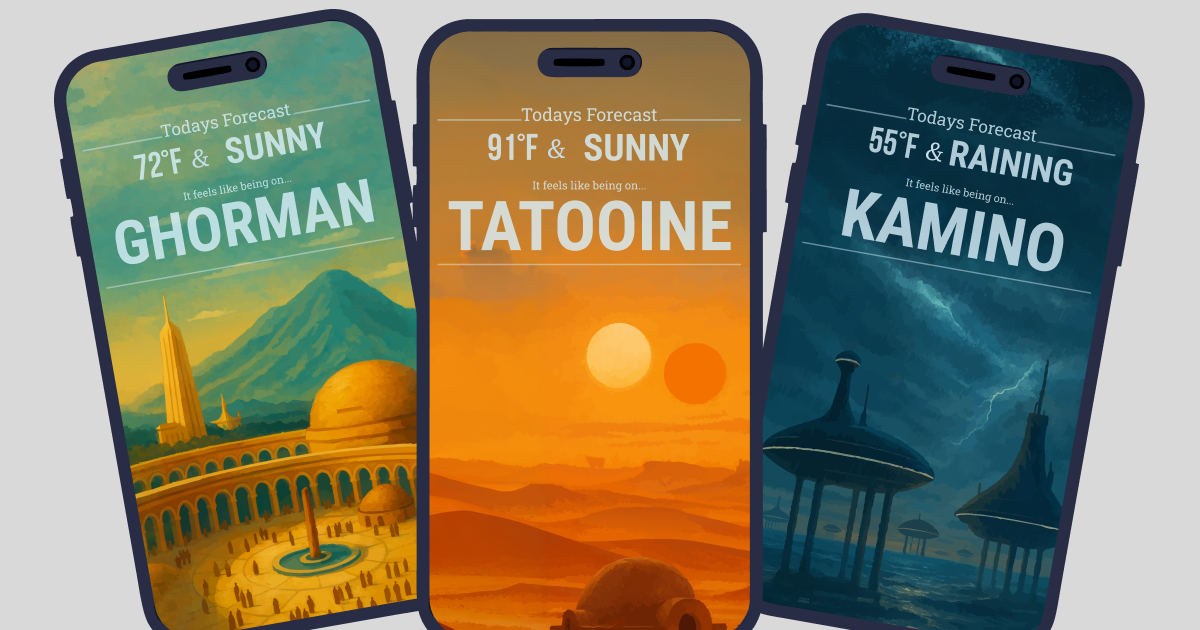
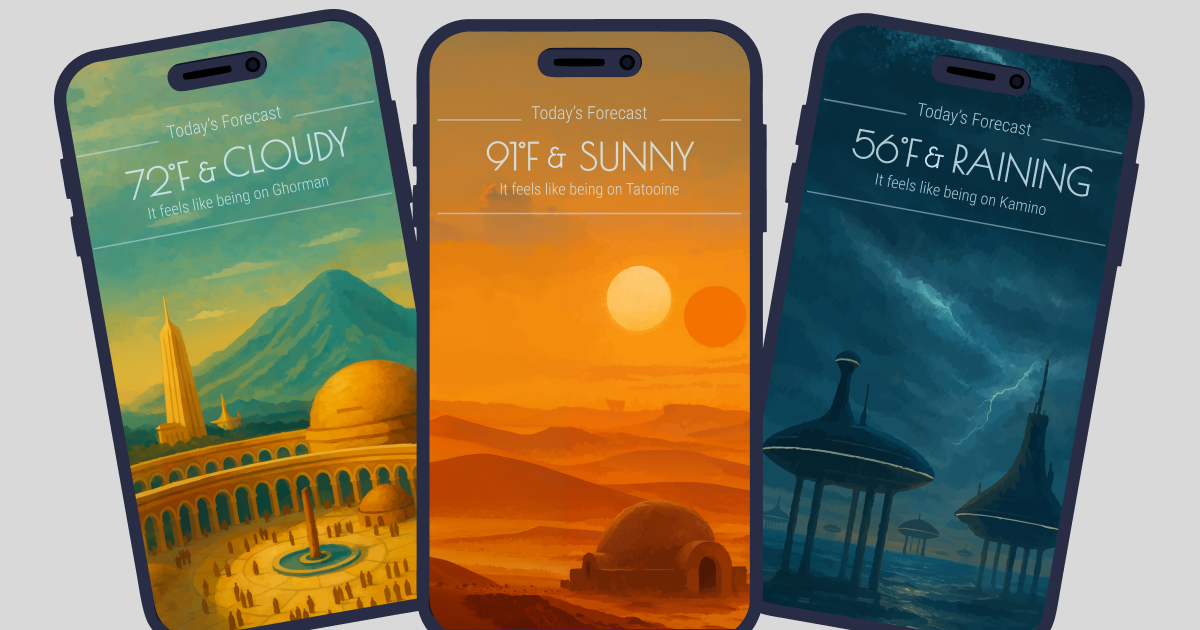
Lead the OG cards with weather, and let the world be a caption
Both broadcast cards reworked further than IP-REVIEW.md asked for. The remaining
vehicles are gone — a speeder in the Tatooine foreground on each card, which this
review had missed and cleared as architecture. More consequentially, the planet
name is no longer the headline: temperature and condition take the large type and
the world drops to a caption beneath it, "It feels like being on Ghorman".

That change closes the one policy question the review could not answer. The
standing rule bans franchise names from metadata and vehicles from broadcast art
but says nothing about a franchise planet name rendered *as* the art, which is
exactly what both cards were doing with TATOOINE and KAMINO in the largest type on
the surface. Rather than ruling on the gap, the cards were changed so nothing sits
in it. The gap remains in principle and is worth a line in ATLAS-HANDOFF.md so a
future redesign does not walk back into it.

Also fixes the apostrophe across all three panels of galactic-weather.png, and a
mislabelled panel that captioned the Ghorman art as Kamino, duplicating the third
panel. Both were verified by cropping each panel individually at 3-4x; the partial
apostrophe fix and the wrong caption were both invisible at full-image scale, which
is how they survived the previous pass.

IP-REVIEW.md now records two limits of its own method, because both produced wrong
calls: crops drawn tightly around an already-suspected object verify a hypothesis
[…]

diff --git a/IP-REVIEW.md b/IP-REVIEW.md
@@ -1,7 +1,8 @@
 # IP review — the distribution surface
 
-Status: **review complete 2026-08-18. Every art finding is remediated. One policy
-decision remains — see item 4 under "Before submission".**
+Status: **closed 2026-08-18. Every art finding is remediated and the
+franchise-name question is resolved by design. Only the attorney review remains
+outstanding, and it is a recommendation rather than a defect.**
 
 **This is not legal advice.** It is an audit of the broadcast assets against the
 rule this project already set for itself, recorded in `ATLAS-HANDOFF.md`:
@@ -18,7 +19,17 @@ franchise involved. What follows is only whether the current assets sit on the
 correct side of the line as drawn.
 
 Every visual claim below was made by opening the file, not by inference from
-filenames. Two ambiguous details were cropped and upscaled before being judged.
+filenames, and ambiguous details were cropped and upscaled before being judged.
+
+**Two limits of that method, recorded because both produced wrong calls.** Crops
+were drawn tightly around objects already noticed, which is verification of a
+hypothesis rather than a sweep — the Tatooine foreground was cleared as "a domed
+homestead, architecture, permitted" while a speeder sat just outside the crop
+window. And `og-card.png` was judged from a single full-image view at display
+resolution with no crops at all, then written up as "no vehicles found," which was
+more confidence than the evidence carried. The owner found and removed vehicles in
+both places. A foreground sweep at several crops beats one crop aimed at the thing
+you already suspect.
 
 ---
 
@@ -88,13 +99,23 @@ does nothing on its own. Either wire it up or drop it.
 
 ---
 
-## RESOLVED — the vehicle silhouette in the primary Open Graph image
+## RESOLVED — the primary Open Graph image
 
-**Fixed 2026-08-18 in `01eeaa7`.** The Kamino sky is now clean; platform edges, the
-antenna spire, and the lightning remain, all architecture or weather rather than
-vehicle design. Confirmed by cropping and upscaling the same region the original
-finding came from, so before and after are the same measurement rather than an
-impression. The finding as originally written follows.
+**Fixed 2026-08-18, across two passes.** `01eeaa7` removed the Kamino craft. A
+second pass by the owner went further than this review had asked:
+
+- The **Tatooine speeder** removed — the vehicle this review had missed.
+- **Planet names demoted** from the largest element on each panel to a subordinate
+  caption beneath the temperature: `72°F & CLOUDY` over `It feels like being on
+  Ghorman`.
+- **`Today's Forecast`** with the apostrophe, on all three panels.
+- A **mislabelled panel corrected** — the Ghorman art had briefly been captioned
+  Kamino, duplicating the third panel.
+
+Verified panel by panel at 3–4× crops rather than from the full view: three
+distinct worlds, correct captions, apostrophes present. Kamino's sky retains only
+platform edges, the antenna spire, and lightning — architecture and weather. The
+finding as originally written follows.
 
 `web-app/galactic-weather/public/galactic-weather.png` (1200×630)
 
@@ -116,7 +137,14 @@ Remove or paint out the Kamino craft. The rest of the image is compliant.
 
 ---
 
-## HIGH — the square OG card leads with a franchise name
+## RESOLVED — the square OG card no longer leads with a franchise name
+
+**Fixed 2026-08-18.** `91°F & SUNNY` is now the dominant element and the world is a
+caption beneath it — `It feels like being on Tatooine`. The apostrophe is correct,
+and a speeder in the foreground was removed, leaving a domed homestead and dunes.
+The twin-suns composition remains, which this review flagged as the softer half of
+the concern and does not consider actionable. The finding as originally written
+follows.
 
 `web-app/galactic-weather/public/og-card.png` (1200×1200)
 
@@ -197,12 +225,15 @@ homage rather than passing-off. Leave it.
 
 ---
 
-## Not IP, but on every broadcast asset
+## RESOLVED — not IP, but it was on every broadcast asset
 
-**"Todays Forecast" is missing its apostrophe.** It appears in `og-card.png` and
-`galactic-weather.png` — the square fallback and the primary link-share card — and
-in the poster art iOS still bundles for Credits. Both OG images need another pass
-anyway to settle item 4; fix the apostrophe in the same pass.
+**"Todays Forecast" now reads "Today's Forecast."** Fixed on `og-card.png` and on
+all three panels of `galactic-weather.png`, each verified by individual crop rather
+than from the full view — the first fix pass landed on the square card only, and
+that partial state was invisible at full-image scale.
+
+Still present in the poster art iOS bundles for Credits, which is in-app rather
+than broadcast, so it is cosmetic rather than a submission concern.
 
 ---
 
@@ -214,11 +245,15 @@ anyway to settle item 4; fix the apostrophe in the same pass.
    (`01eeaa7`).
 3. ~~**Decide whether `public/posters/` counts as broadcast.**~~ **Decided and
    done** — removed from the web app; iOS keeps its own copies for in-app Credits.
-4. **Decide the franchise-name-as-broadcast-art question**, and amend the rule in
-   `ATLAS-HANDOFF.md` to say what was decided either way. **Now the only open IP
-   item.** Both OG images still lead with a franchise planet name in the largest
-   type on the card, and the rule as written does not cover that case.
-5. **Fix "Todays" → "Today's"** on the OG art.
+4. ~~**Decide the franchise-name-as-broadcast-art question.**~~ **Resolved by
+   design, not by policy.** Rather than rule on whether a franchise planet name may
+   headline a broadcast card, the cards were changed so none of them does — the
+   world is now a caption under the temperature on every surface. The gap in the
+   written rule still exists in principle; it no longer has anything sitting in it.
+   Worth one line in `ATLAS-HANDOFF.md` recording that broadcast art leads with
+   weather and treats the world as a caption, so the next redesign does not
+   reintroduce the question.
+5. ~~**Fix "Todays" → "Today's"** on the OG art.~~ **Done** on both cards.
 6. **One hour with an actual attorney.** Everything above is an audit against a
    self-imposed rule. Whether the accepted-risk position on in-app planet names
    holds up is a question for someone qualified to answer it, and it is cheap
